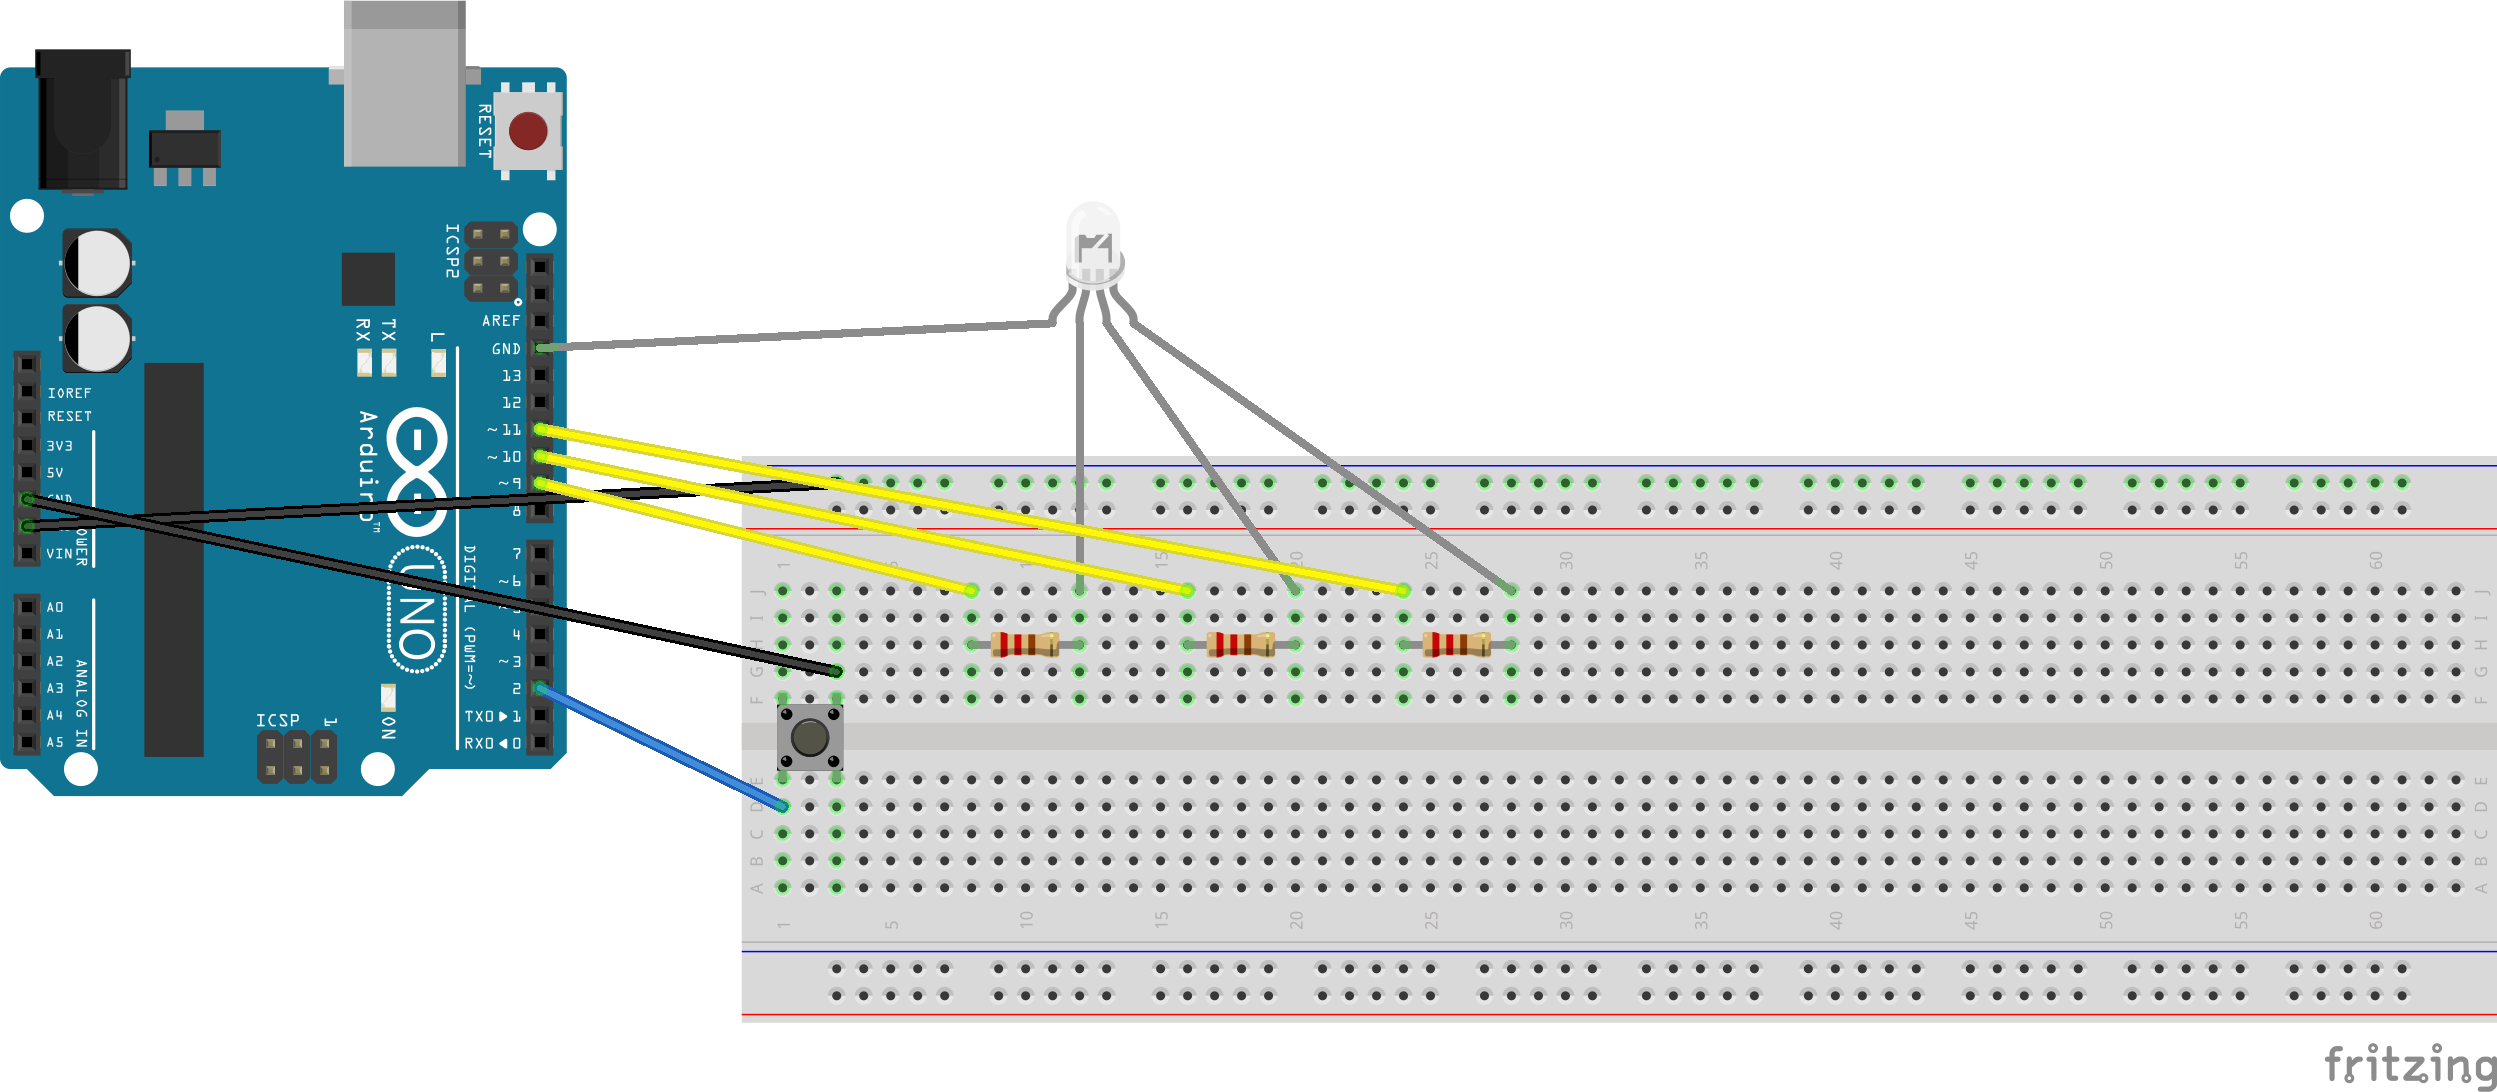
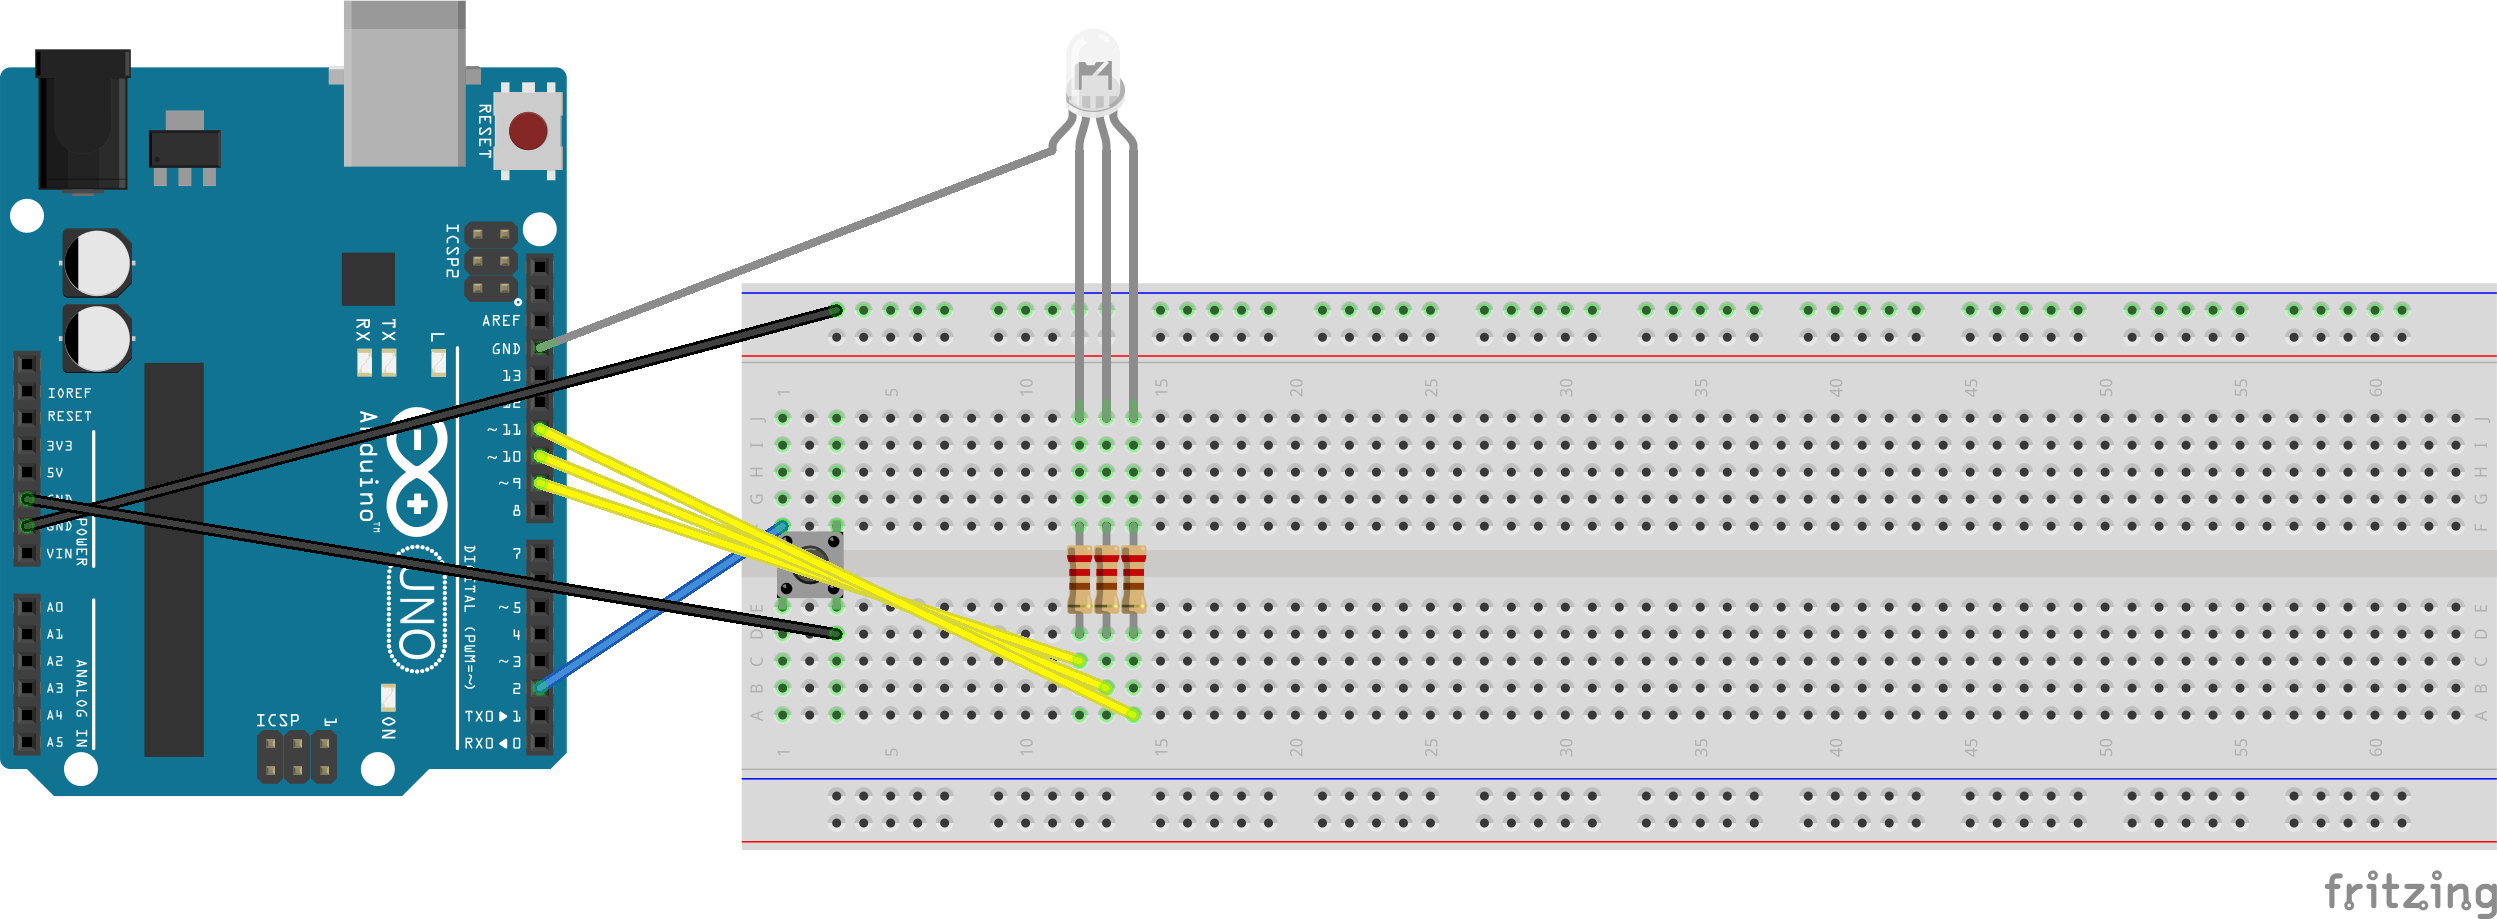
Arduino_Uno_Chroma_LED is completed.

Changed region(s): [[0.0, 0.0305, 1.0, 1.0], [0.3436, 0.2133, 0.3748, 0.2437]]

diff --git a/Arduino_Uno_Chroma_LED/README.md b/Arduino_Uno_Chroma_LED/README.md
@@ -2,9 +2,21 @@
 
 ## Overview
 
-- 
+- This project is a simple, interactive desk light created with an Arduino Uno and a single 5mm common cathode RGB LED. By pressing the tactile switch, you can cycle through six preset colors (Pink, Orange, Green, Blue, Purple) and a smoothly transitioning color fade animation. This project is an excellent introduction to controlling RGB LEDs with PWM signals and handling button inputs on the Arduino. It's a perfect weekend project that results in a beautiful, minimalist mood lamp.
 
-![]()
+![](https://mir-cdn.behance.net/v1/rendition/project_modules/max_3840_webp/6226e6229627251.6867e0d1bb8c7.jpg)
+
+![](https://mir-s3-cdn-cf.behance.net/project_modules/max_3840_webp/938d8b229627251.6867e0d1bc328.jpg)
+
+![](https://mir-s3-cdn-cf.behance.net/project_modules/max_3840_webp/5d5c6a229627251.6867e0d1bb195.jpg)
+
+![](https://mir-s3-cdn-cf.behance.net/project_modules/max_3840_webp/ba3420229627251.6867e0d1bacc1.jpg)
+
+![](https://mir-s3-cdn-cf.behance.net/project_modules/max_3840_webp/9ed5b2229627251.6867e0d1bbdcc.jpg)
+
+![](https://mir-s3-cdn-cf.behance.net/project_modules/max_3840_webp/3a3079229627251.6867e0d1ba49c.jpg)
+
+![](https://mir-s3-cdn-cf.behance.net/project_modules/max_3840_webp/e95a45229627251.6867e0d1bc881.jpg)
 
 
 ### Bill of Materials
@@ -25,22 +37,35 @@
 
 -  Wire it according to [Arduino_Uno_Chroma_LED_bb.png](https://github.com/asamiile/diy-electronics/blob/main/Arduino_Uno_Chroma_LED/diagrams/Arduino_Uno_Chroma_LED_bb.png)
 
-[![Image from Gyazo](https://i.gyazo.com/493fa55bfb84cf0b24e8e266b5d860ba.png)](https://gyazo.com/493fa55bfb84cf0b24e8e266b5d860ba)
+![](https://github.com/asamiile/diy-electronics/blob/main/Arduino_Uno_Chroma_LED/diagrams/Arduino_Uno_Chroma_LED_bb.png)
+
+![](https://mir-s3-cdn-cf.behance.net/project_modules/max_3840_webp/4fc92f229627251.6867e0d0b3b1b.jpg)
+
+![](https://mir-s3-cdn-cf.behance.net/project_modules/max_3840_webp/fbf47c229627251.6867e0d0b35f8.jpg)
+
+![](https://mir-s3-cdn-cf.behance.net/project_modules/max_3840_webp/eb167d229627251.6867e0d0b3081.jpg)
 
 
 ### Software Development
 
-1. Open the Arduino IDE.
+1. Set up the IDE: Open the Arduino IDE. Ensure your board is configured correctly under Tools > Board (select "Arduino Uno").
+2. Upload the Code: Copy and paste the complete code from the [https://github.com/asamiile/diy-electronics/blob/main/Arduino_Uno_Chroma_LED/Arduino_Uno_Chroma_LED.ino](Arduino_Uno_Chroma_LED/sketch/sketch_jul4a/Arduino_Uno_Chroma_LED/Arduino_Uno_Chroma_LED.ino) file into your sketch.
+3. Connect & Upload: Connect your Arduino Uno to your PC with the USB cable and click the "Upload" button.
 
 
 ### Test
 
-1. Upload the sketch to the Arduino and connect the power supply.
-
+1. After uploading the sketch, the RGB LED will be off.
+2. Press the tactile switch once. The LED will turn pink.
+3. Each subsequent press will cycle through the colors: Orange, Green, Blue, Purple, and then a smooth color-fading animation.
+4. The next press will turn the LED off again, completing the cycle.
+5. Confirm that all patterns are displayed correctly to complete the test.
 
 
 ## Author
 
 [Asami.K](https://asami.tokyo/)
+
+[Arduino Uno Chroma LED - Behance](https://www.behance.net/gallery/229627251/Arduino-Uno-Chroma-LED)
 
 <a href="https://www.buymeacoffee.com/asamiile" target="_blank"><img src="https://cdn.buymeacoffee.com/buttons/v2/default-yellow.png" alt="Buy Me A Coffee" style="height: 60px !important;width: 217px !important;" ></a>

diff --git a/Arduino_Uno_8x8_led_matrix/README.md b/Arduino_Uno_8x8_led_matrix/README.md
@@ -130,4 +130,6 @@ After you finish wiring, please trace each connection with your finger and verif
 
 [Asami.K](https://asami.tokyo/)
 
+[Arduino Uno 8x8 LED Matrix - Behance](https://www.behance.net/gallery/229464473/Arduino-Uno-8x8-LED-Matrix)
+
 <a href="https://www.buymeacoffee.com/asamiile" target="_blank"><img src="https://cdn.buymeacoffee.com/buttons/v2/default-yellow.png" alt="Buy Me A Coffee" style="height: 60px !important;width: 217px !important;" ></a>
